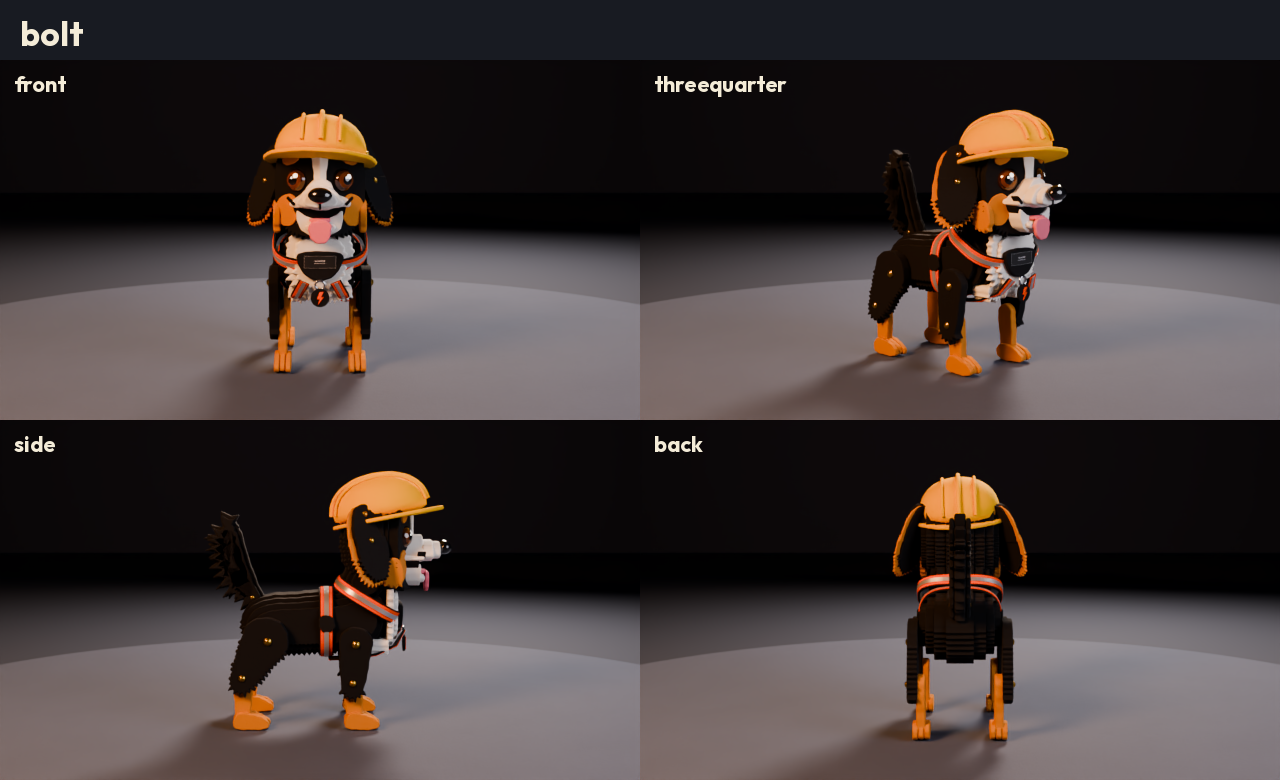
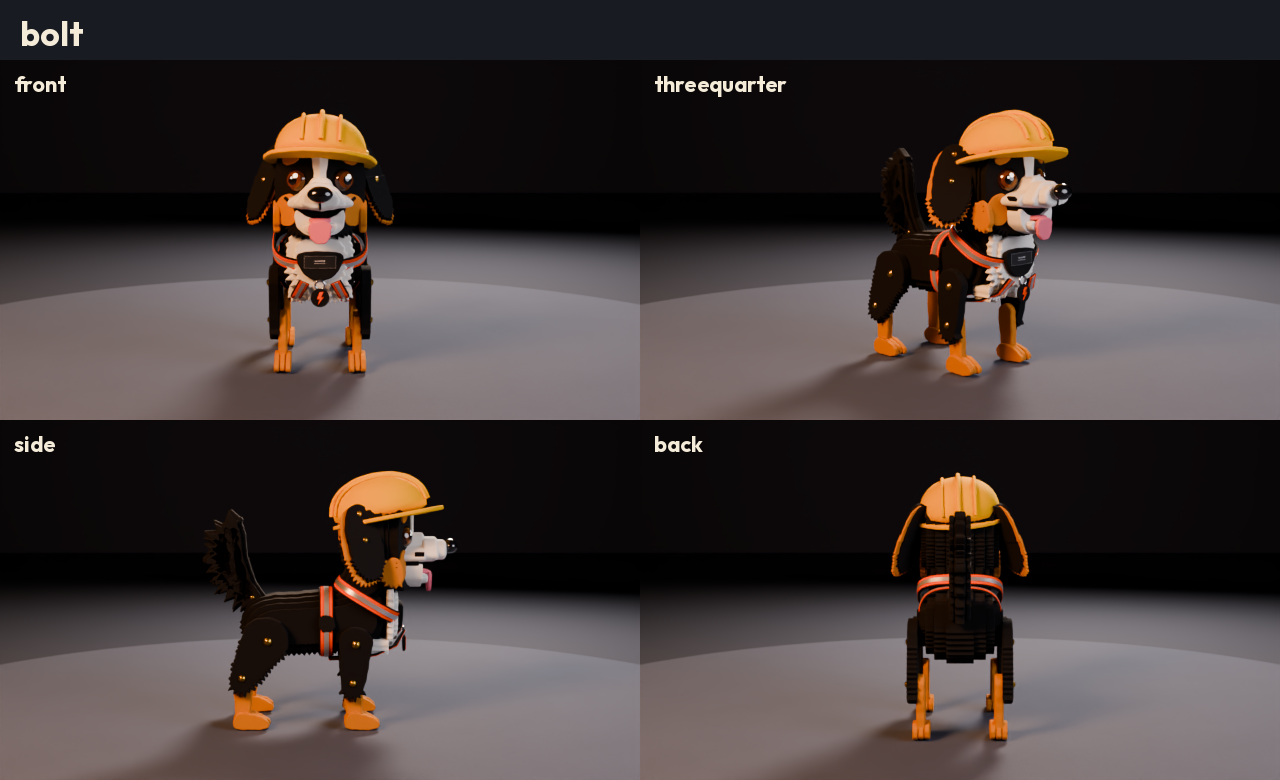
WIP checkpoint: character rebuild progress
Claude-Session: https://claude.ai/code/session_01BntmWCku4jb1pF4QRZCMzN

diff --git a/scripts/builders/mittens.py b/scripts/builders/mittens.py
@@ -80,10 +80,9 @@ KNEE = Vector((0.12, -0.27, 0.085))
 ANKLE = Vector((0.125, -0.355, -0.36))
 TOE = Vector((0.125, -0.49, -0.42))
 SCREEN = Vector((-0.34, -0.95, 0.10))
-TAIL_PTS = [Vector(p) for p in [(-0.03, 0.15, 0.06), (-0.15, 0.19, 0.06), (-0.27, 0.14, 0.07),
-                                 (-0.335, 0.04, 0.14), (-0.345, 0.0, 0.29),
-                                 (-0.305, 0.04, 0.44)]]
-
+TAIL_PTS = [Vector(p) for p in [(-0.03, 0.15, 0.06), (-0.15, 0.185, 0.055), (-0.265, 0.15, 0.05),
+                                 (-0.305, 0.07, -0.05), (-0.3, -0.02, -0.17),
+                                 (-0.3, -0.13, -0.1)]]
 X, Y, Z = Vector((1, 0, 0)), Vector((0, 1, 0)), Vector((0, 0, 1))
 FWD = Vector((0, -1, 0))
 

diff --git a/scripts/builders/pickles.py b/scripts/builders/pickles.py
@@ -818,7 +818,7 @@ def _face(coll, m, arm):
         c, n, y, x = _eye_frame(s)
         # black socket block chamfering the head corner so the eye sits on a flat face
         add(panel(P + f"eye_back.{sfx}", outline(ellipse(EYE_RX * 1.45, EYE_RY * 1.3, 30),
-                                                  "p" * 30, pink=0.002, pink_sp=0.006),
+                                                  jit=0.0008),
                   0.036, c - n * 0.032, n, (0, 0, 1), m["black"], coll, bevel=0.004), "mask")
         add(panel(P + f"eye.{sfx}", outline(ellipse(EYE_RX, EYE_RY, 30), jit=0.0005), 0.006,
                   c + n * 0.003, n, (0, 0, 1), m["eye"], coll, bevel=0.002), f"eye_{sfx}")
